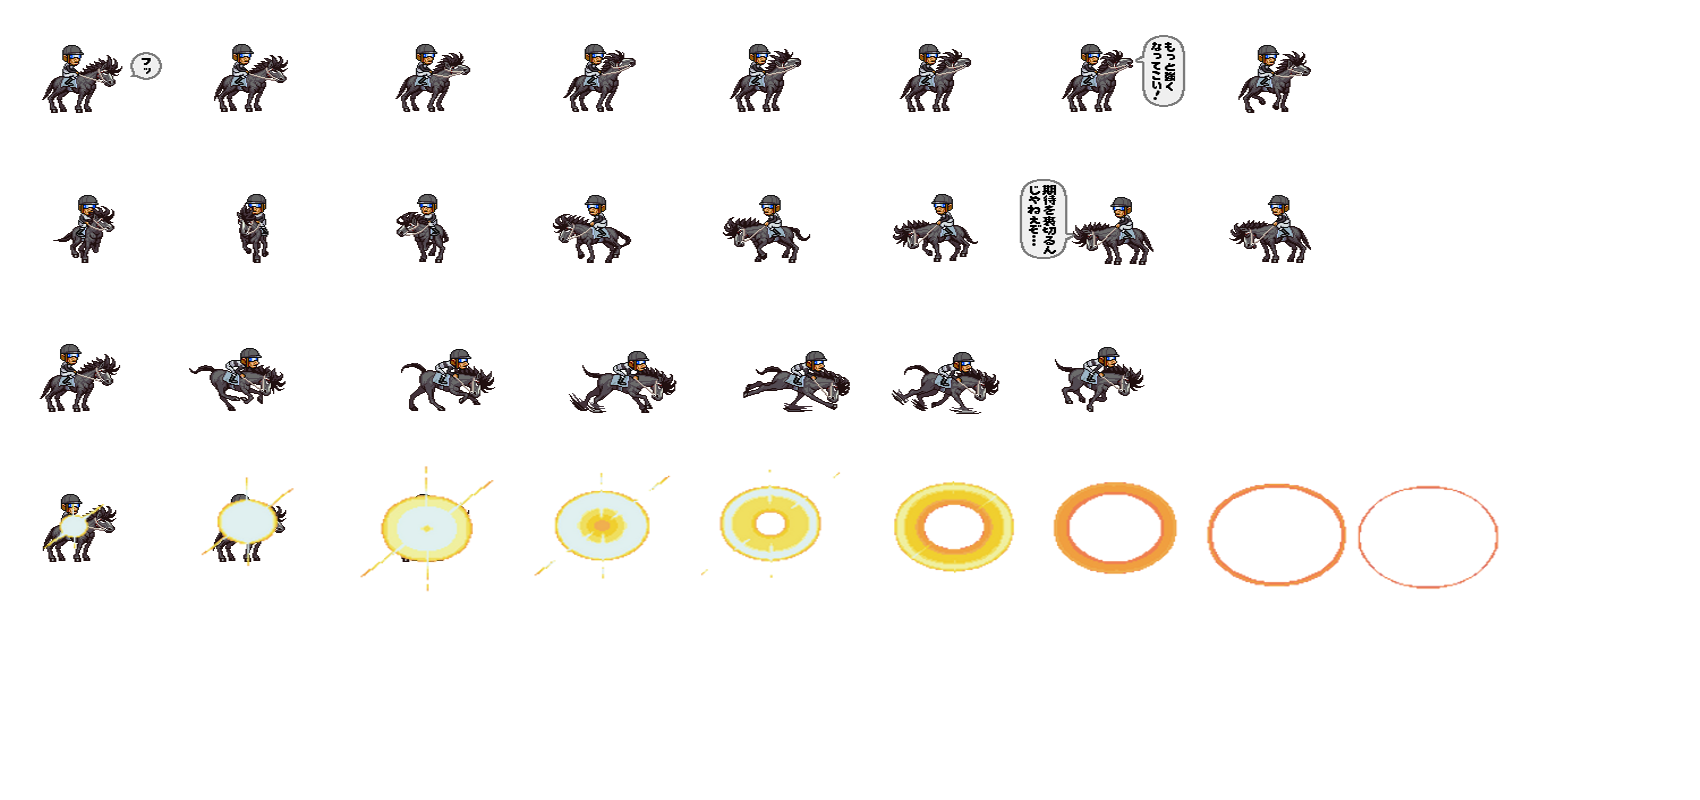
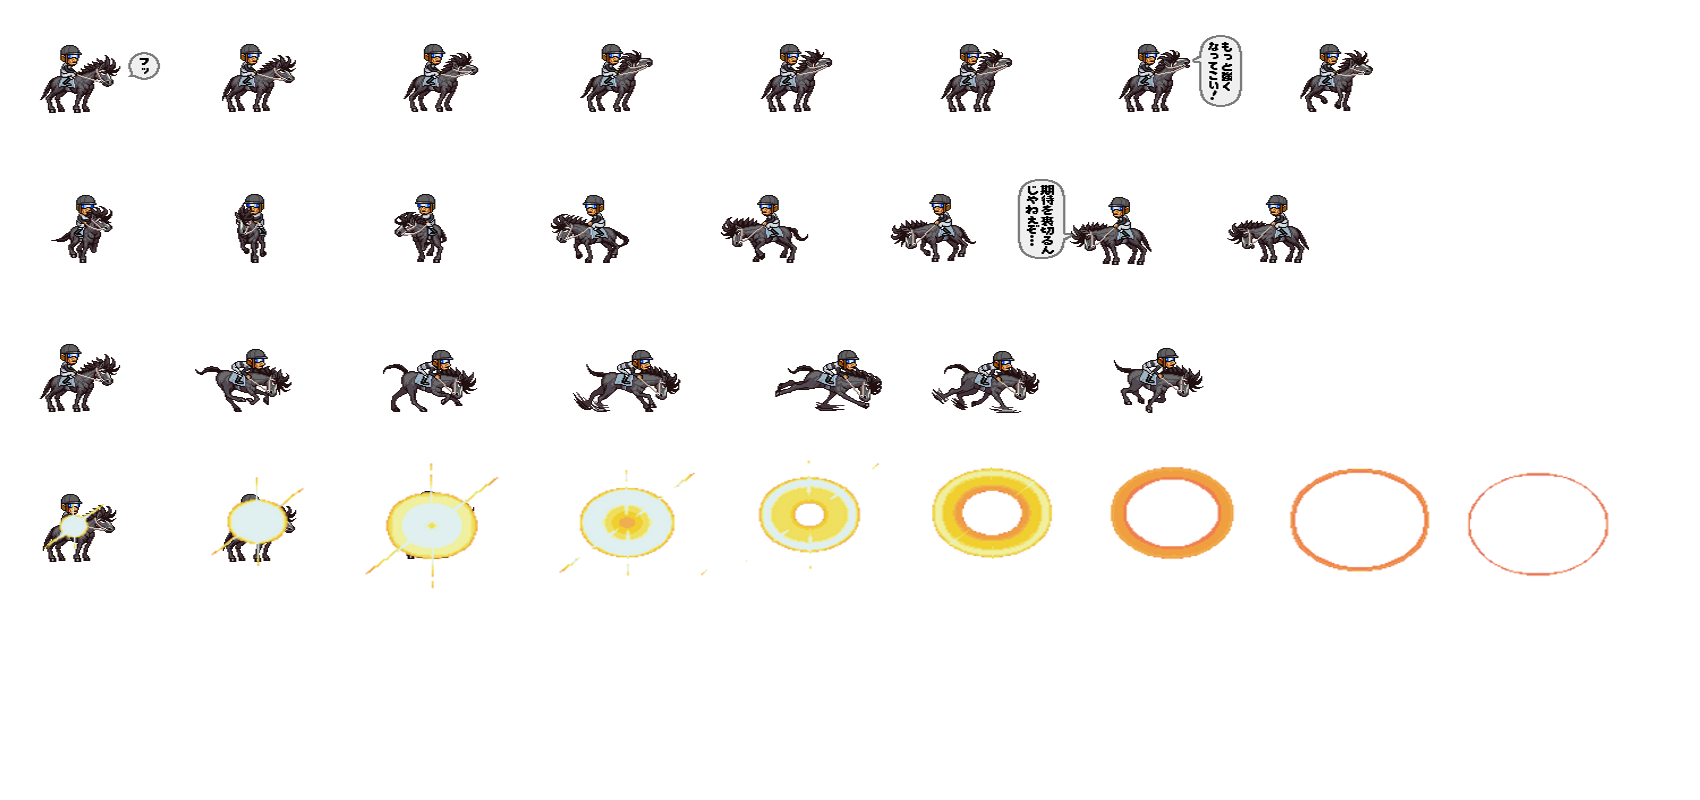
morts boss

diff --git a/GameMenu/GameMenu/GameMenu/IA/bossPLAT.cs b/GameMenu/GameMenu/GameMenu/IA/bossPLAT.cs
@@ -132,7 +132,19 @@ namespace Umea_rana
                     break;
                 case "Cascade":
                     line = 150;
-                    colunm = 150;
+                    colunm = 180;
+                    break;
+                case "Boubou":
+                    line = 93;
+                    colunm = 125;
+                    break;
+                case "Taizo":
+                    line = 93;
+                    colunm = 125;
+                    break;
+                case "Kinukuman":
+                    line = 93;
+                    colunm = 125;
                     break;
                 default:
                     line = 100;
@@ -175,7 +187,7 @@ namespace Umea_rana
 
                     ptfaible_.Add(new Pointaction(dir, Vector2.Zero, rectangle_C, rectangle));
                     line = 150;
-                    colunm = 150;
+                    colunm = 180;
                     hauteurY = 150;
                     largeurX = 150;
                     break;
@@ -185,24 +197,24 @@ namespace Umea_rana
                     break;
                 case "Kinukuman":
                     ptfaible_.Add(new Pointaction(dir, Vector2.Zero, rectangle_C, rectangle));
-                    line = 100;
-                    colunm = 100;
+                    line = 93;
+                    colunm = 125;
                     hauteurY = 100;
                     largeurX = 100;
                     break;
                 case "Boubou":
 
                     ptfaible_.Add(new Pointaction(dir, Vector2.Zero, rectangle_C, rectangle));
-                    line = 150;
-                    colunm = 150;
+                    line = 93;
+                    colunm = 125;
                     hauteurY = 150;
                     largeurX = 150;
                     break;
-                case "Taizon":
+                case "Taizo":
 
                     ptfaible_.Add(new Pointaction(dir, Vector2.Zero, rectangle_C, rectangle));
-                    line = 75;
-                    colunm = 75;
+                    line = 93;
+                    colunm = 125;
                     hauteurY = 100;
                     largeurX = 100;
                     break;
@@ -247,7 +259,20 @@ namespace Umea_rana
                 case "Cascade":
 
                     line = 150;
-                    colunm = 150;
+                    colunm = 180;
+                    break;
+
+                case "Boubou" :
+                    line = 93;
+                    FrameColumn = 125;
+                    break;
+                case "Taizo":
+                    line = 93;
+                    FrameColumn = 125;
+                    break;
+                case "Kinukuman":
+                    line = 93;
+                    FrameColumn = 125;
                     break;
                 default:
                     break;
@@ -572,34 +597,200 @@ namespace Umea_rana
             lastvie = vie;
             timerrun--;
         }
+
+        public void Animation(int n)
+        {
+            this.Timer++;
+            if (this.Timer == this.AnimationSpeed)
+            {
+                this.Timer = 0;
+                this.FrameColumn++;
+                if (FrameColumn > n)
+                    FrameColumn = 1;
+            }
+        }
+
         public void Animated()
         {
             if (type == "Light")
             {
-                this.Timer++;
-                if (this.Timer == this.AnimationSpeed)
+                if (vie > 0)
                 {
-                    this.Timer = 0;
-                    this.FrameColumn++;
-                    if (FrameColumn > 13)
+                    FrameLine = 1;
+                    Animation(13);
+                }
+                else
+                {
+                    FrameLine = 2;
+
+                    this.Timer++;
+                    if (FrameColumn == 7)
+                    {
+
+                    }
+                    else if (FrameColumn > 7)
                     {
                         FrameColumn = 1;
                     }
+                    else if (this.Timer == this.AnimationSpeed)
+                    {
+                        this.Timer = 0;
+                        this.FrameColumn++;
+
+                    }
+
                 }
             }
 
             else if (type == "Cascade")
             {
-                this.Timer++;
-                if (this.Timer == this.AnimationSpeed)
+                if (vie > 0)
                 {
-                    this.Timer = 0;
-                    this.FrameColumn++;
-                    if (FrameColumn > 8)
+                    FrameLine = 1;
+                    Animation(8);
+                }
+                else
+                {
+                    FrameLine = 4;
+
+                    this.Timer++;
+                    if (FrameColumn == 10)
+                    {
+
+                    }
+                    else if (FrameColumn > 10)
                     {
                         FrameColumn = 1;
                     }
+                    else if (this.Timer == this.AnimationSpeed)
+                    {
+                        this.Timer = 0;
+                        this.FrameColumn++;
+
+                    }
+
                 }
+            }
+
+            else if (type == "Boubou")
+            {
+                if (vie > 0)
+                {
+                    FrameLine = 1;
+                    Animation(4);
+                }
+                else
+                {
+                    FrameLine = 3;
+
+                    this.Timer++;
+                    if (FrameColumn == 5)
+                    {
+
+                    }
+                    else if (FrameColumn > 5)
+                    {
+                        FrameColumn = 1;
+                    }
+                    else if (this.Timer == this.AnimationSpeed)
+                    {
+                        this.Timer = 0;
+                        this.FrameColumn++;
+
+                    }
+
+                }
+            }
+
+            else if (type == "Kinukuman")
+            {
+                if (vie > 0)
+                {
+                    FrameLine = 1;
+                    Animation(4);
+                }
+                else
+                {
+                    FrameLine = 3;
+
+                    this.Timer++;
+                    if (FrameColumn == 6)
+                    {
+
+                    }
+                    else if (FrameColumn > 6)
+                    {
+                        FrameColumn = 1;
+                    }
+                    else if (this.Timer == this.AnimationSpeed)
+                    {
+                        this.Timer = 0;
+                        this.FrameColumn++;
+
+                    }
+
+                }
+            }
+
+            else if (type == "Taizo")
+            {
+               
+                if (vie > 0)
+                {
+                    FrameLine = 1;
+                    Animation(3);
+                }
+                else
+                {
+                    if (FrameLine != 5 && FrameLine != 6)
+                    {
+                        FrameLine = 5;
+                        FrameColumn = 1;
+                    }
+                    else if (FrameLine == 5)
+                    {
+                        this.Timer++;
+                        if (FrameColumn == 16)
+                        {
+                            FrameLine = 6;
+                            FrameColumn = 1;
+                        }
+                        else if (FrameColumn > 5)
+                        {
+                            FrameLine = 6;
+                            FrameColumn = 1;
+                        }
+                        else if (this.Timer == this.AnimationSpeed)
+                        {
+                            this.Timer = 0;
+                            this.FrameColumn++;
+
+                        }
+
+                    }
+
+                    else if (FrameLine == 6)
+                    {
+                        this.Timer++;
+                        if (FrameColumn == 13)
+                        {
+
+                        }
+                        else if (FrameColumn > 13)
+                        {
+                            
+                        }
+                        else if (this.Timer == this.AnimationSpeed)
+                        {
+                            this.Timer = 0;
+                            this.FrameColumn++;
+
+                        }
+                    }
+                   
+
+                }
+
             }
         }
 
